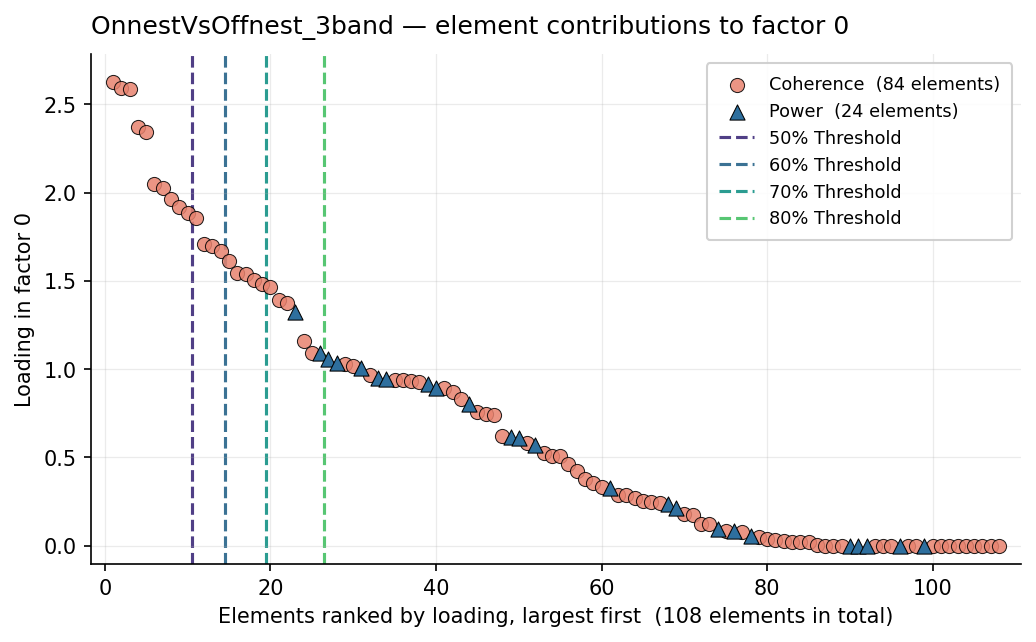
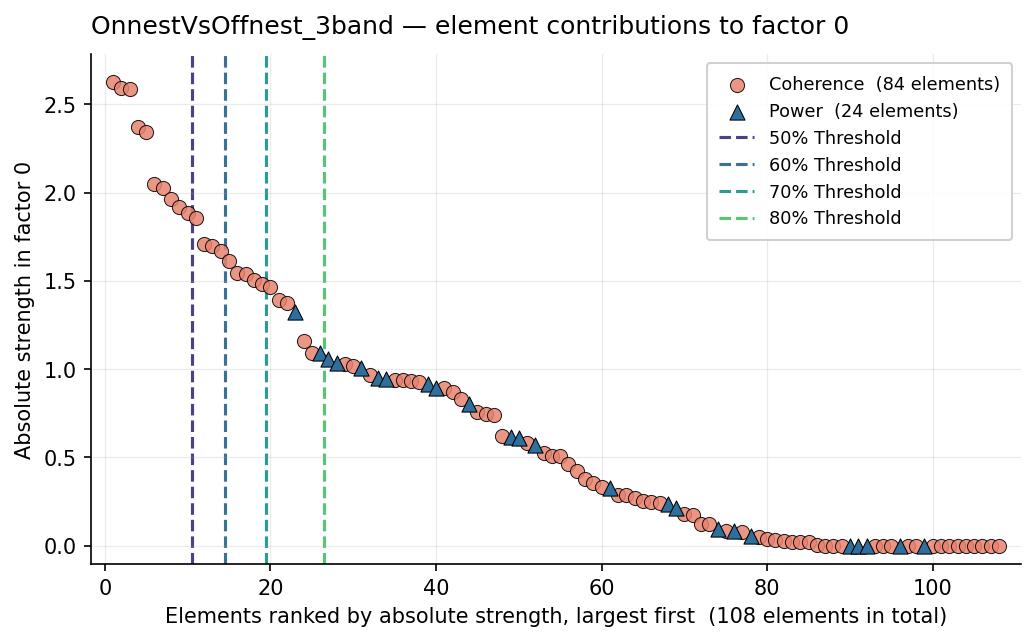
viz: the scree plot's quantity is Absolute Strength, not "loading"
The dual selection already names it: analysis.py Step 2 is "Absolute Strength
Analysis (Based on L2 Norm Cumulation)", and its abs_df is W_factor0 itself --
the very numbers the scree plot draws. The supplement's selected-feature
captions agree ("Absolute strength of feature contribution is indicated by bar
length / dot size").

So the scree axes now read "Absolute strength in factor 0" and "Elements ranked
by absolute strength, largest first"; the thresholds are on cumulated squared
absolute strength. One name across the scree plot, the dual-filter figure and
the paper. Numbers unchanged.

("loading" survives only in plot_mouse_loading_timeseries, where it means the
per-window loading score s -- a different quantity.)

Changed region(s): [[0.1544, 0.9346, 0.9266, 0.9969], [0.0, 0.2492, 0.0309, 0.7165]]

diff --git a/src/electome/viz.py b/src/electome/viz.py
@@ -1459,10 +1459,12 @@ def scree_cutoffs(W, k=0, thresholds=(0.5, 0.6, 0.7, 0.8)):
     """How many elements are selected at each threshold of factor ``k``.
 
     This is the paper's feature-thresholding rule (Supplement, "Feature
-    Thresholding"): rank the elements of the EF loading vector by squared
-    loading magnitude, accumulate the proportion of the total squared
-    loadings, and select elements from largest to smallest while the running
-    total stays within the threshold. The element that would push the total
+    Thresholding"): rank the elements of the factor by squared absolute
+    strength, accumulate the proportion of the total, and select elements
+    from largest to smallest while the running total stays within the
+    threshold. "Absolute strength" is the name the dual-selection figures
+    give these values (bar length / dot size in the selected-feature plots);
+    it is simply the entry of the normalized W_nmf row. The element that would push the total
     past the threshold is not selected -- the same ``cumulative_sum <=
     threshold`` rule :func:`electome.analysis.process_W_nmf_k` uses to build
     the circos and heatmap figures, so the counts here match the published
@@ -1476,15 +1478,15 @@ def scree_cutoffs(W, k=0, thresholds=(0.5, 0.6, 0.7, 0.8)):
     Parameters
     ----------
     W : torch.Tensor or np.ndarray
-        The EF loading matrix from ``model.get_W_nmf()``, shape
+        The normalized W_nmf from ``model.get_W_nmf()``, shape
         (n_factors, n_elements). ``get_W_nmf`` already applies the Softplus
-        and the per-factor L2 normalisation, so this is the same matrix the
-        paper's selection ran on.
+        and the per-factor L2 normalisation, so its entries are the absolute
+        strengths the paper's selection ran on.
     k : int
         Which factor (default 0, the supervised one).
     thresholds : iterable[float]
-        Thresholds to report, as fractions of the total squared loadings.
-        Defaults to ``(0.5, 0.6, 0.7, 0.8)``.
+        Thresholds to report, as fractions of the total squared absolute
+        strength. Defaults to ``(0.5, 0.6, 0.7, 0.8)``.
 
     Returns
     -------
@@ -1501,7 +1503,7 @@ def scree_cutoffs(W, k=0, thresholds=(0.5, 0.6, 0.7, 0.8)):
         W = W.detach().cpu().numpy()
     row = np.asarray(W[k, :], dtype=float)
 
-    # Accumulate in float64: W is stored float32, and with ~2000 elements the
+    # Accumulate in float64: W_nmf is stored float32, and with ~2000 elements the
     # rounding of a float32 cumsum is enough to move a count by one when the
     # curve crosses a threshold almost exactly.
     sorted_sq = np.sort(row.astype(np.float64) ** 2)[::-1]
@@ -1523,8 +1525,8 @@ def plot_scree_W_nmf(W, k=0, thresholds=(0.5, 0.6, 0.7, 0.8), n_power_rows=8,
     when ``W`` is reshaped to (36, n_freq)) from coherence features (``o``).
 
     Dashed lines mark the element cut-off points at 50 / 60 / 70 / 80 % of
-    the total squared loadings, following the paper's feature-thresholding
-    rule (see :func:`scree_cutoffs`). Each line is drawn just past the last
+    the cumulated squared absolute strength, following the paper's
+    feature-thresholding rule (see :func:`scree_cutoffs`). Each line is drawn just past the last
     selected element, so the number of elements selected at that threshold
     can be read straight off the x axis; :func:`scree_cutoffs` returns the
     same numbers if you want them as values.
@@ -1536,14 +1538,14 @@ def plot_scree_W_nmf(W, k=0, thresholds=(0.5, 0.6, 0.7, 0.8), n_power_rows=8,
     Parameters
     ----------
     W : torch.Tensor or np.ndarray
-        The EF loading matrix from ``model.get_W_nmf()``, shape
-        (n_factors, n_elements).
+        The normalized W_nmf from ``model.get_W_nmf()``, shape
+        (n_factors, n_elements). Its entries are the absolute strengths.
     k : int
         Which factor to inspect (default 0, the supervised one).
     thresholds : iterable[float]
         Where to draw the cut-off lines, as fractions of the total squared
-        loadings. Defaults to ``(0.5, 0.6, 0.7, 0.8)``, the four thresholds
-        the supplemental figures report.
+        absolute strength. Defaults to ``(0.5, 0.6, 0.7, 0.8)``, the four
+        thresholds the supplemental figures report.
     n_power_rows : int
         How many of the 36 (region + region_pair) rows are power elements
         (default 8 -- 8 regions). The rest are coherence (28 region pairs).
@@ -1598,8 +1600,9 @@ def plot_scree_W_nmf(W, k=0, thresholds=(0.5, 0.6, 0.7, 0.8), n_power_rows=8,
         msize, edge, alpha = 5, 0.0, 0.45
 
     is_power = orig_row < n_power_rows
-    # Rank 1 = largest loading, so the x axis reads as a rank and the number
-    # of elements left of a cut-off line is the count at that threshold.
+    # Rank 1 = largest absolute strength, so the x axis reads as a rank and
+    # the number of elements left of a cut-off line is the count at that
+    # threshold.
     x = np.arange(1, n_features + 1)
     ax.scatter(x[~is_power], values[~is_power], marker='o', s=msize,
                color='#E8836F', edgecolors='black', linewidths=edge,
@@ -1623,9 +1626,9 @@ def plot_scree_W_nmf(W, k=0, thresholds=(0.5, 0.6, 0.7, 0.8), n_power_rows=8,
                    alpha=0.95, zorder=1,
                    label=f'{t:.0%} Threshold')
 
-    ax.set_xlabel(f'Elements ranked by loading, largest first  '
+    ax.set_xlabel(f'Elements ranked by absolute strength, largest first  '
                   f'({n_features} elements in total)')
-    ylab = f'Loading in factor {k}'
+    ylab = f'Absolute strength in factor {k}'
     if exponent != 0:
         ylab += rf'  ($\times 10^{{{exponent}}}$)'
     ax.set_ylabel(ylab)
